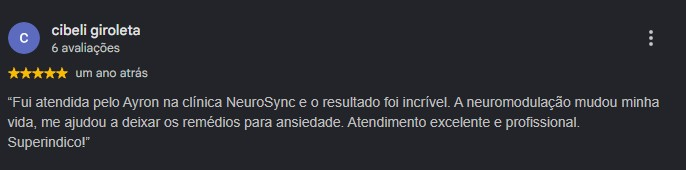
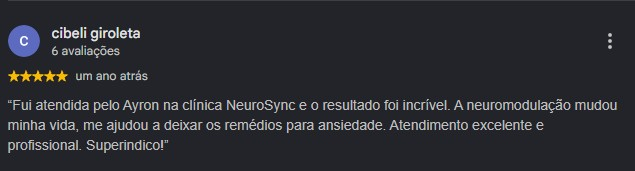
Volta depoimentos pra 3 colunas no desktop com os novos prints
Novos prints vieram mais estreitos, cabendo os 3 lado a lado numa
única linha sem perder legibilidade.

diff --git a/css/style.css b/css/style.css
@@ -216,11 +216,10 @@ p{ margin: 0 0 1em; }
 /* =================== BLOCO 2 — DEPOIMENTOS =================== */
 .testimonials{ background: var(--linho-puro); }
 .testimonials__grid{
-  display:grid; grid-template-columns: repeat(2, 1fr); gap: 28px;
+  display:grid; grid-template-columns: repeat(3, 1fr); gap: 20px;
   margin-top: 44px; justify-items:center;
 }
-.testimonials__grid .testimonial-card:last-child:nth-child(odd){ grid-column: 1 / -1; }
-.testimonial-card{ margin:0; text-align:center; max-width: 480px; width:100%; }
+.testimonial-card{ margin:0; text-align:center; max-width: 360px; width:100%; }
 .testimonial-card__seal{
   display:inline-block;
   font-family: var(--font-label); font-size:.72rem; letter-spacing:.06em;
